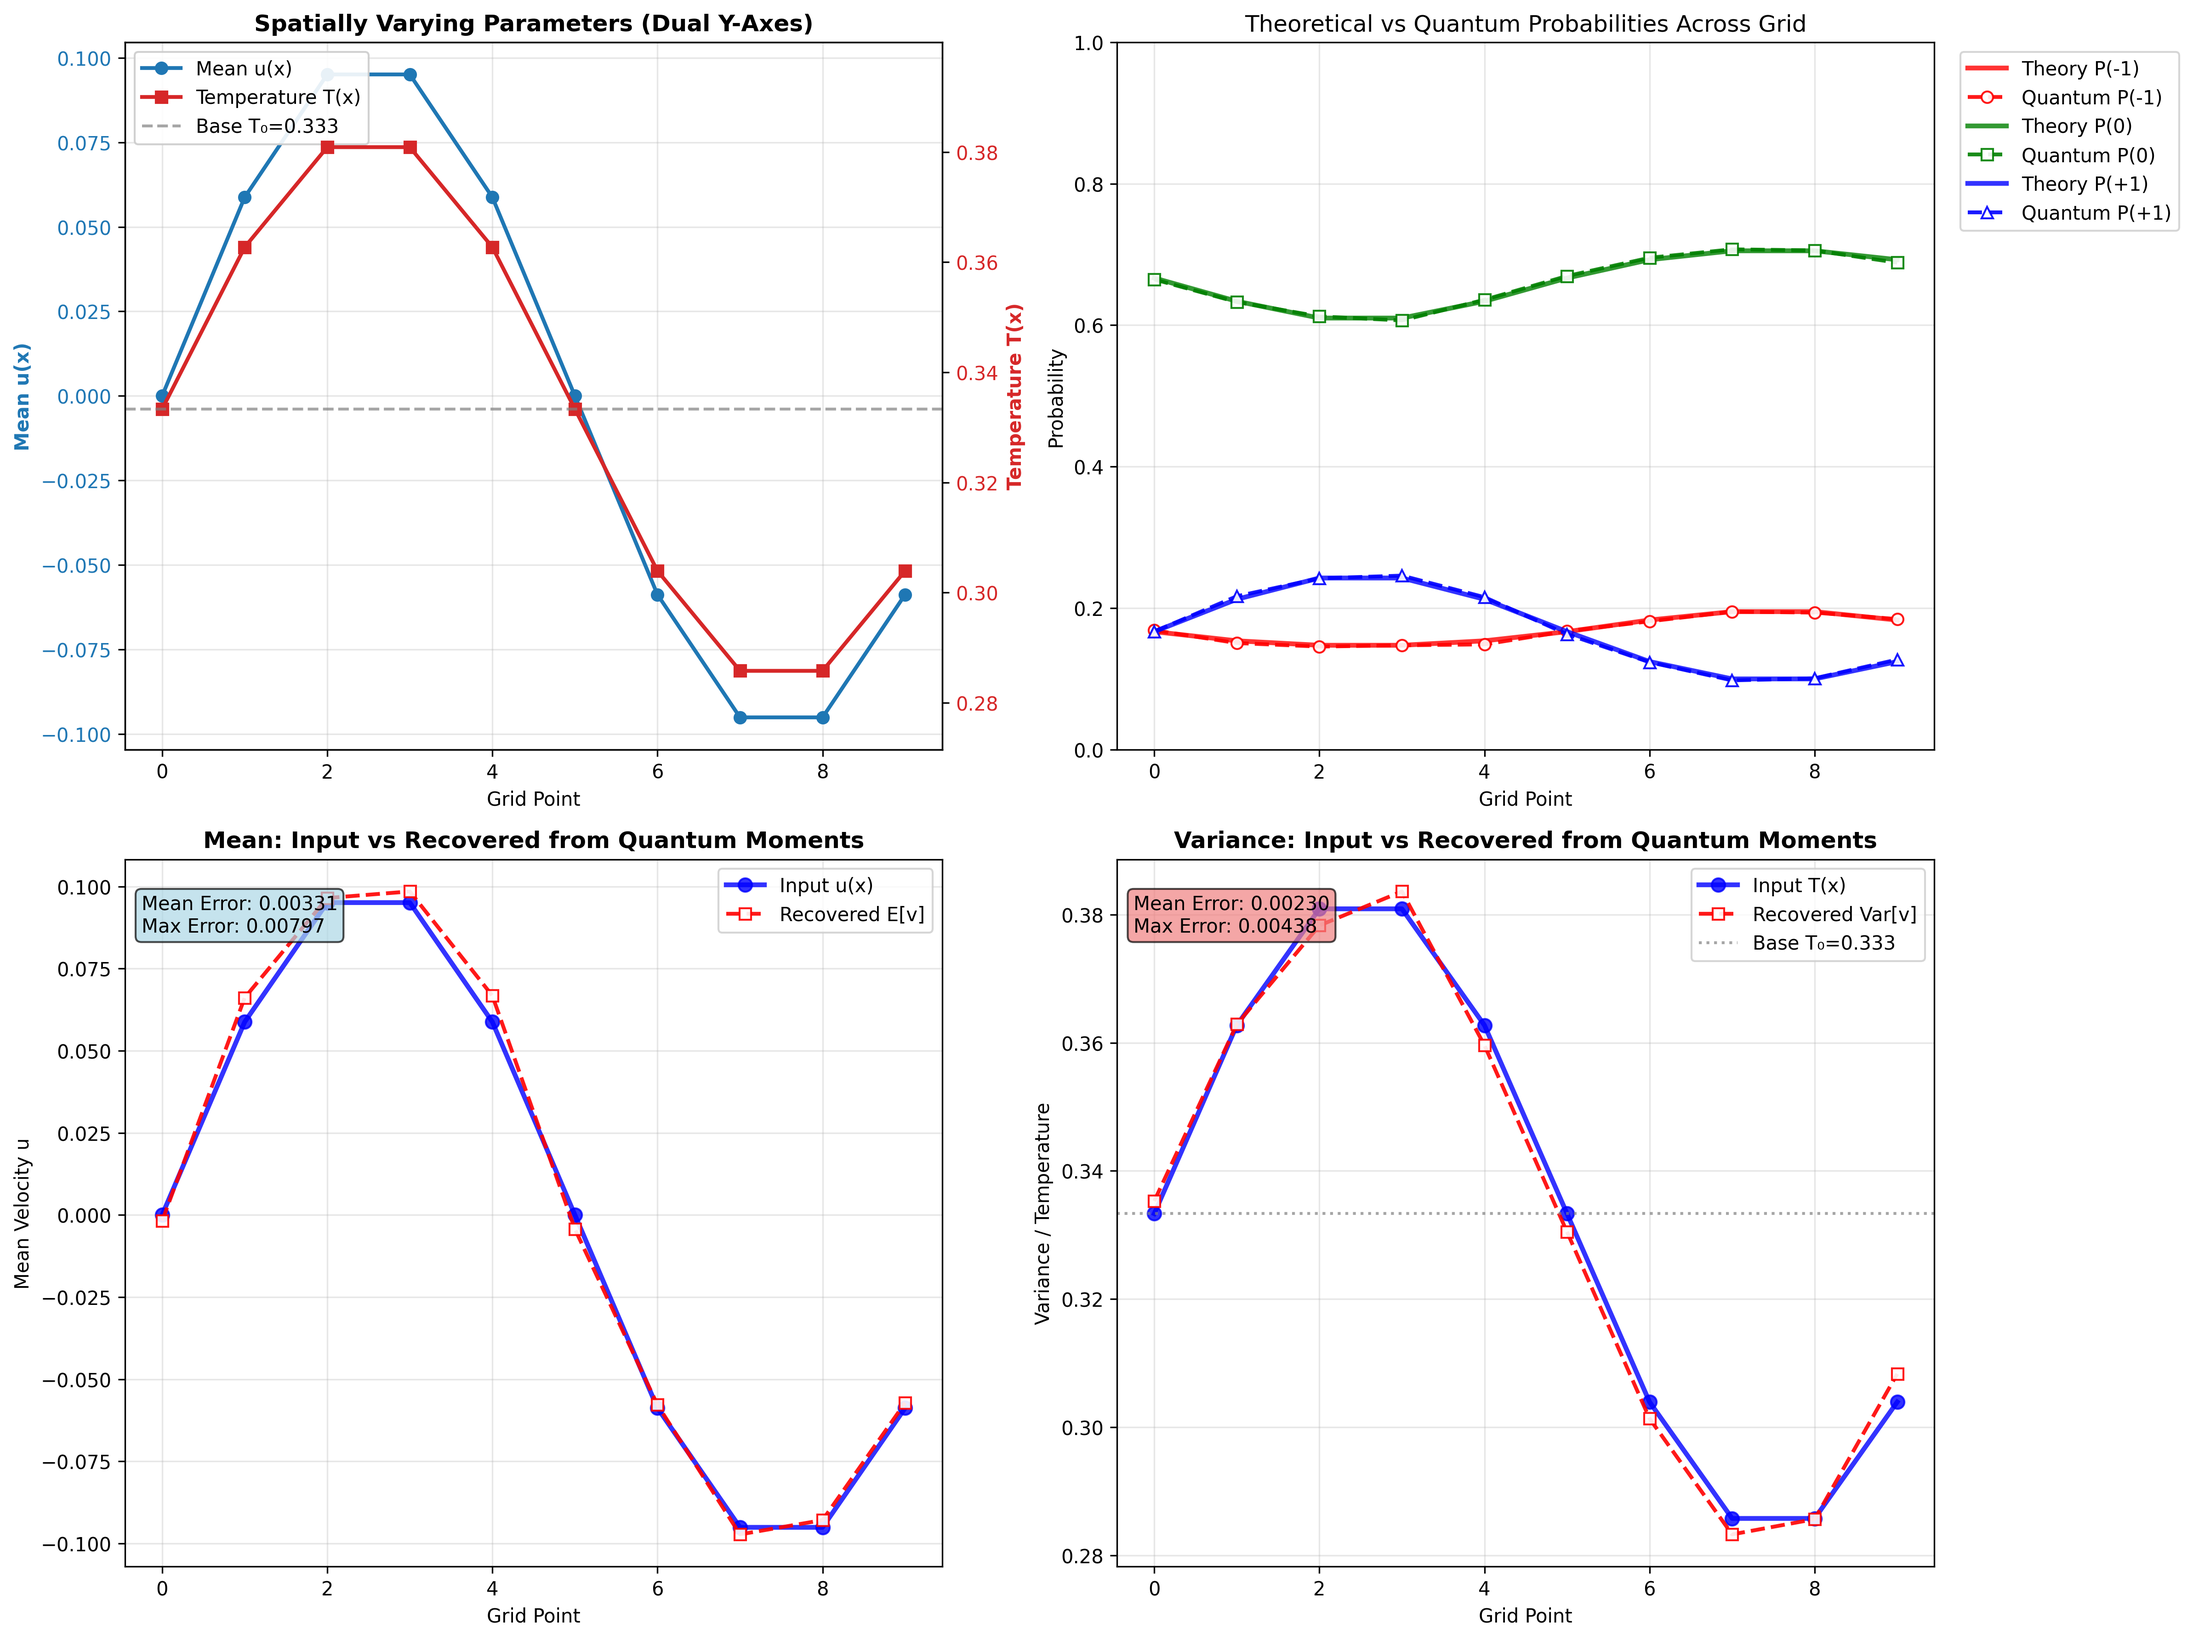
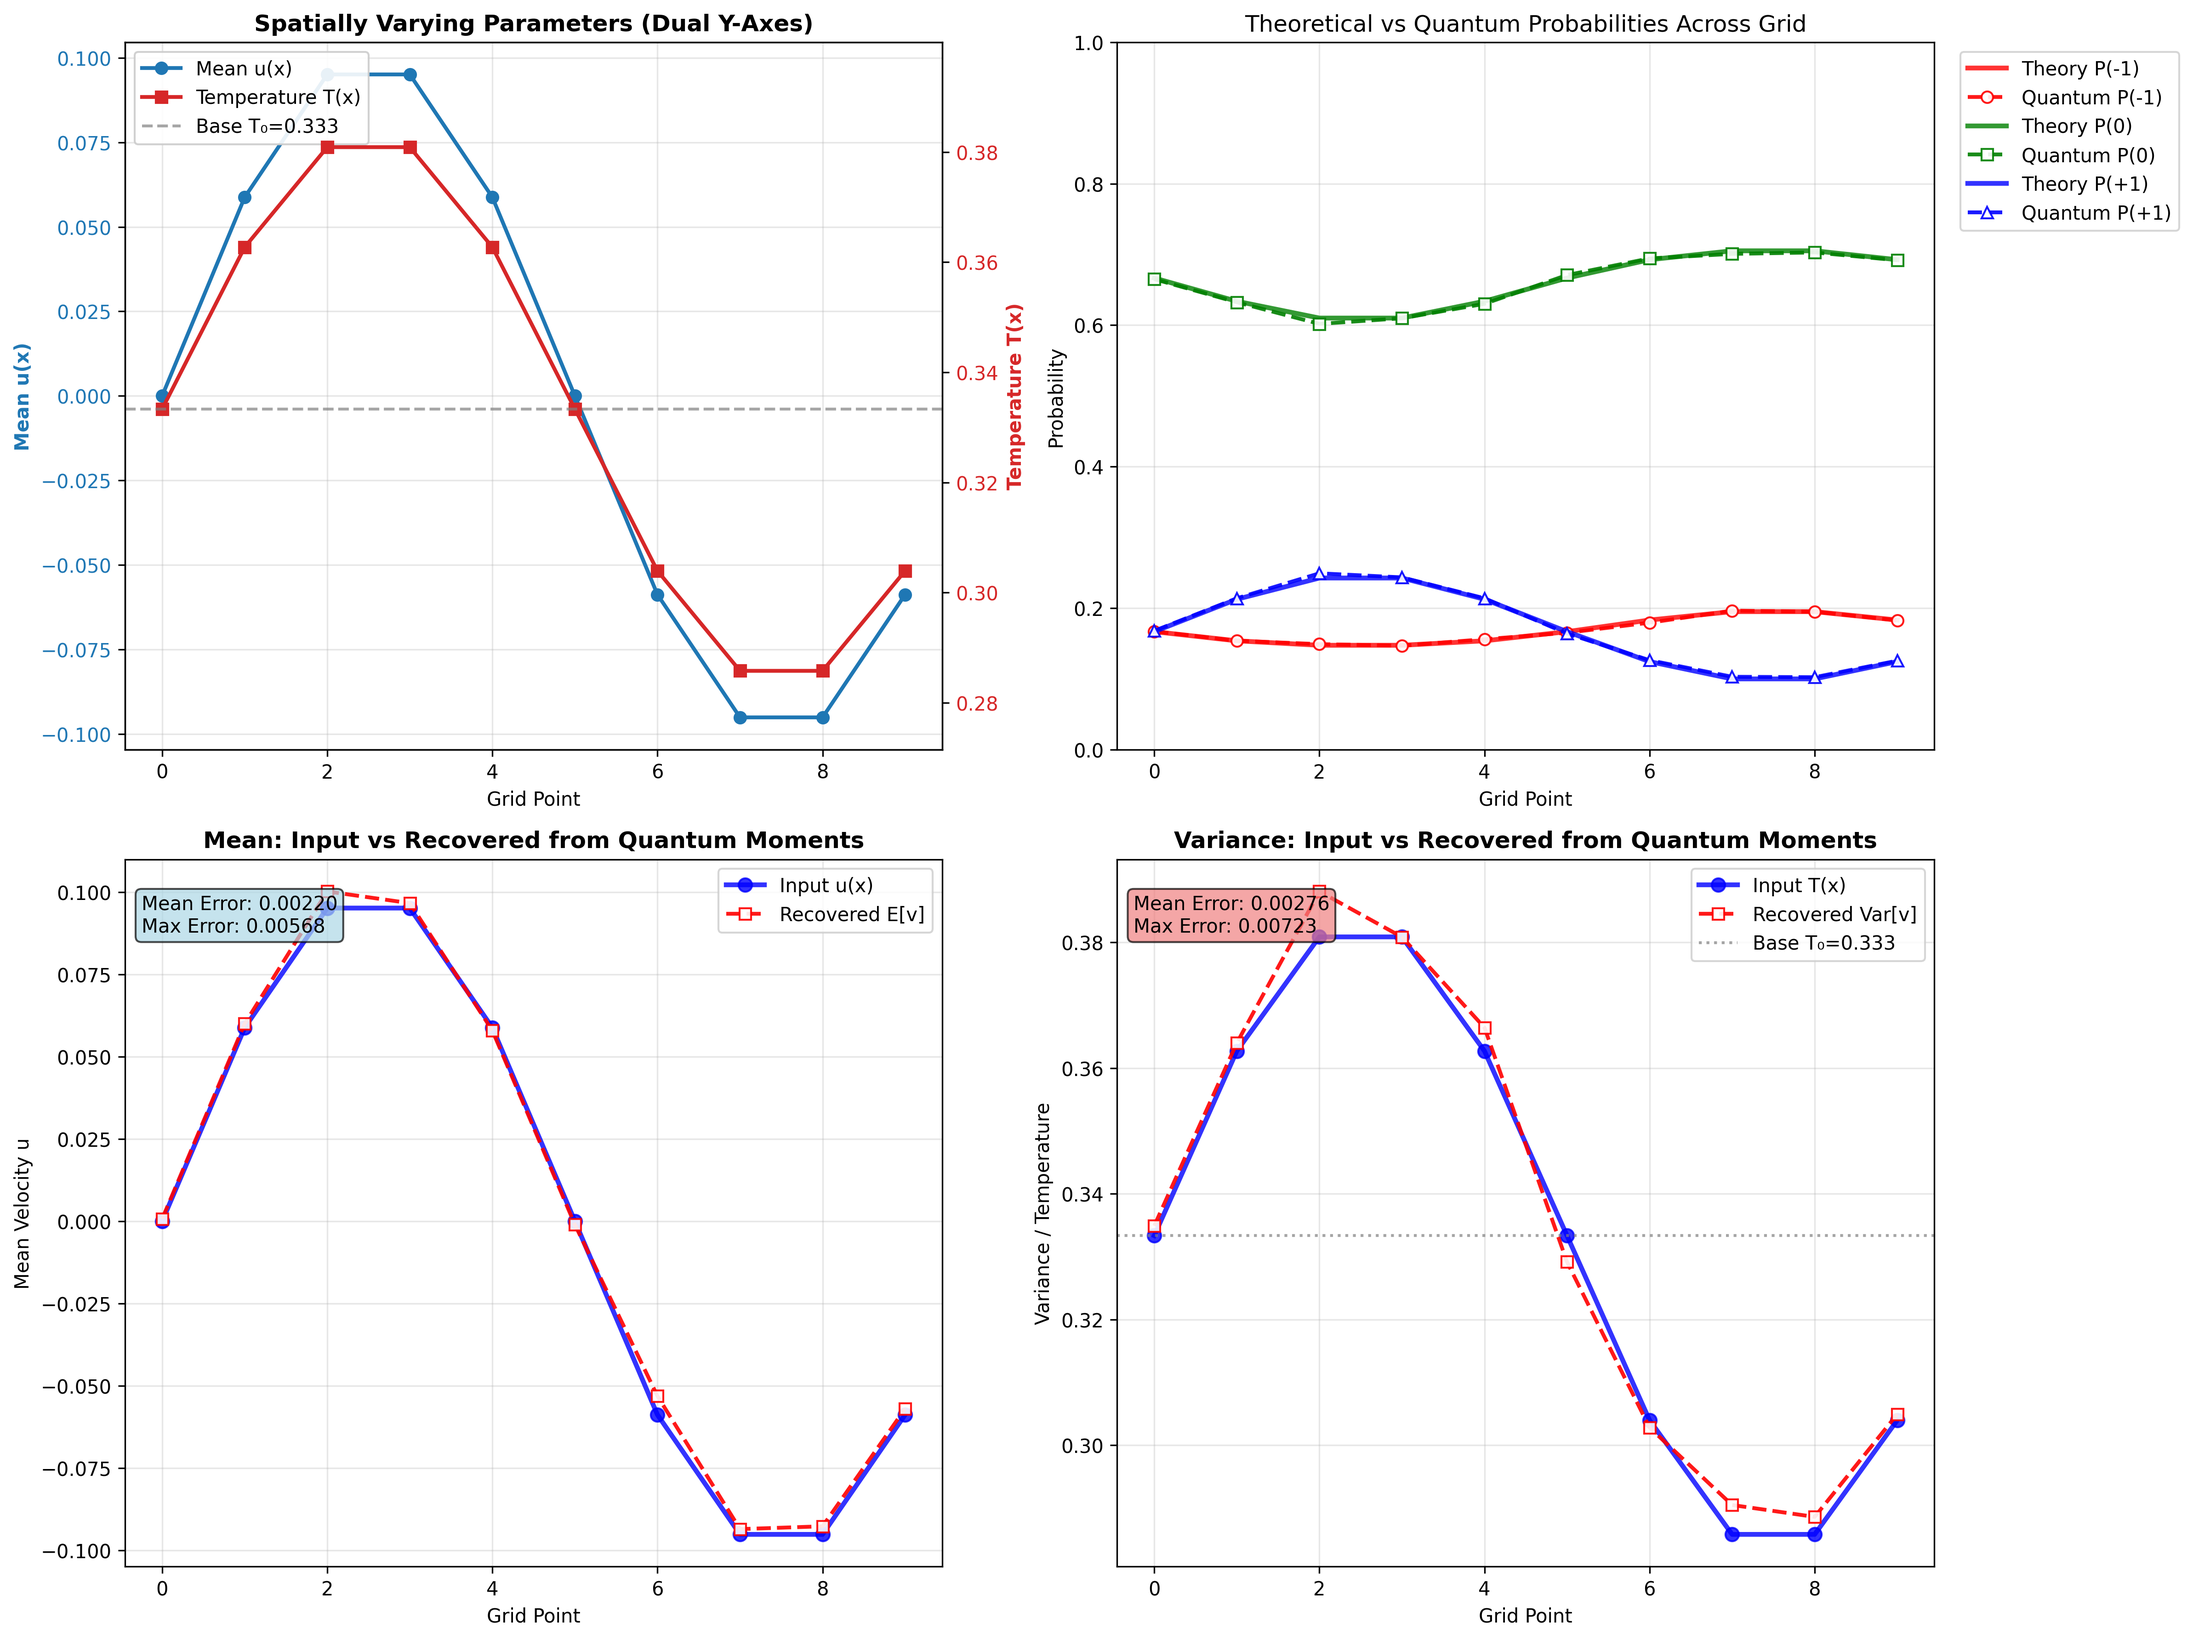
updated parameters

diff --git a/quantum_discrete_gaussian.py b/quantum_discrete_gaussian.py
@@ -99,7 +99,7 @@ class QuantumDiscreteGaussian:
         
         # uz varies with z: flow in z-direction depends on z-position
         # Also add small x-variation for better visualization in 2D slices
-        means_z = 0.1 * np.sin(2 * np.pi * Z / Nz) + 0.02 * np.sin(2 * np.pi * X / Nx)
+        means_z = 0.02 * np.sin(2 * np.pi * Z / Nz) + 0.08 * np.sin(2 * np.pi * X / Nx)
         
         # Temperature varies with x (energy gradient in x-direction)
         temperatures = self.T0 + 0.05 * np.sin(2 * np.pi * X / Nx)
